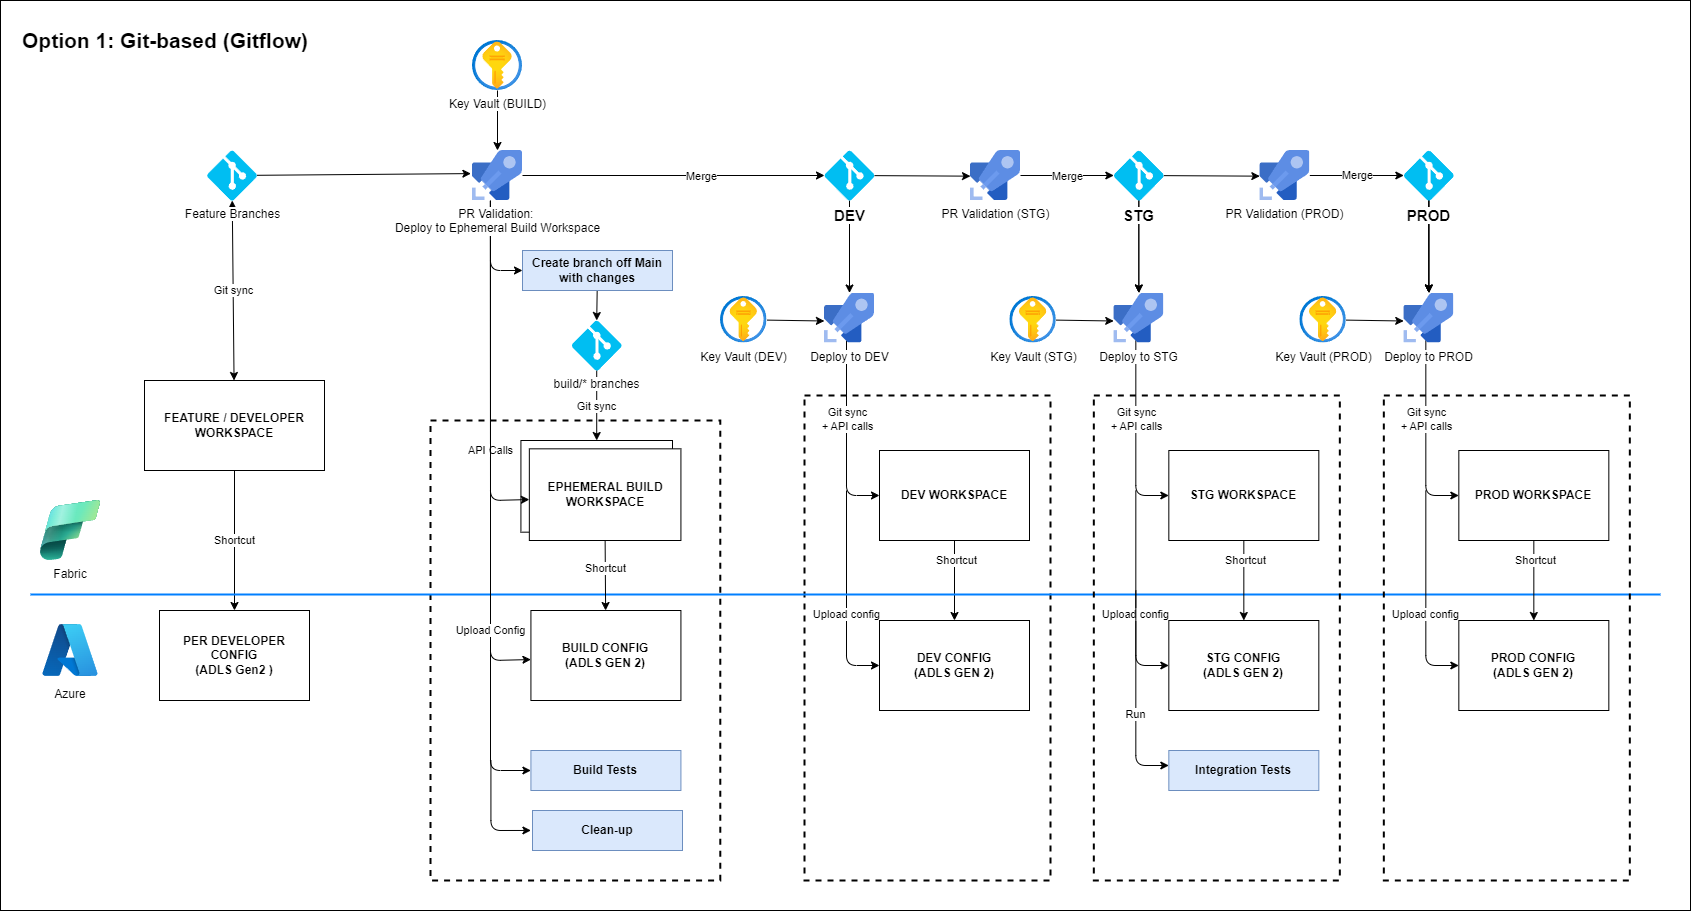
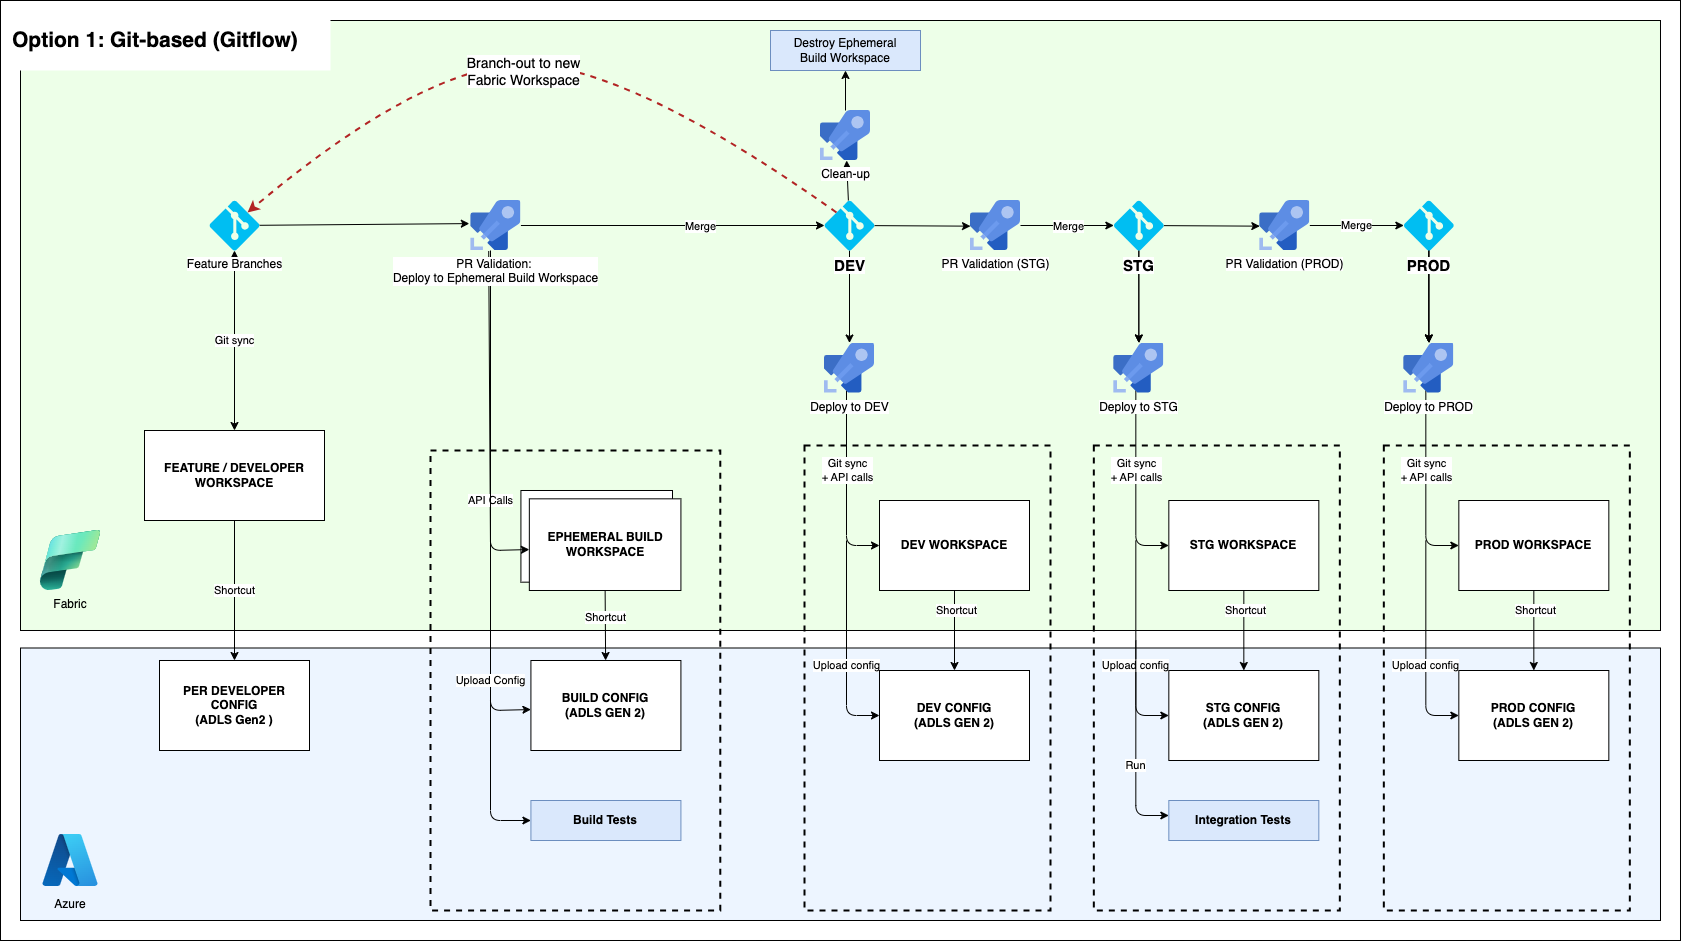
Upating doco

diff --git a/e2e_samples/fabric_dataops_sample/README.md b/e2e_samples/fabric_dataops_sample/README.md
@@ -17,8 +17,6 @@ This sample aims to provide customers with a reference end-to-end (E2E) implemen
     - [Unit testing](#unit-testing)
     - [Integration testing](#integration-testing)
   - [Build and release pipelines](#build-and-release-pipelines)
-    - [CI pipelines](#ci-pipelines)
-    - [CD pipelines](#cd-pipelines)
 - [Understanding the sample](#understanding-the-sample)
   - [High-level deployment sequence](#high-level-deployment-sequence)
   - [Deployed resources](#deployed-resources)
@@ -30,7 +28,6 @@ This sample aims to provide customers with a reference end-to-end (E2E) implemen
     - [Verifying the infrastructure deployment](#verifying-the-infrastructure-deployment)
   - [Running the application code](#running-the-application-code)
   - [Triggering the CI/CD pipelines](#triggering-the-cicd-pipelines)
-    - [Define environment and variable groups](#define-environment-and-variable-groups)
 - [Cleaning up](#cleaning-up)
 - [Frequently asked questions](#frequently-asked-questions)
   - [Infrastructure deployment related](#infrastructure-deployment-related)
@@ -58,7 +55,15 @@ The diagram below illustrates the complete end-to-end CI/CD process:
 
 ![Fabric CI/CD diagram](./images/fabric-cicd-option1.png)
 
-See [here](#build-and-release-pipelines) for details.
+Here is a high-level summary of the steps involved:
+
+- Deploy the sample infrastructure which creates three environments (dev, staging, prod) by default with Azure and Fabric resources.
+- Create a new feature workspace using the [branch out to a new workspace](https://learn.microsoft.com/fabric/cicd/git-integration/manage-branches?tabs=azure-devops#scenario-2---develop-using-another-workspace) functionality. Develop and test the feature in the feature workspace.
+- Open a pull request (PR) to merge the feature branch into the `dev` branch.
+- The QA pipeline it triggered automatically when a PR is opened. The pipeline runs Python unit tests and Fabric unit tests to validate the changes.
+- Once the PR is approved and merged, the build artifacts pipeline is triggered. This pipeline publishes configuration files and custom libraries as artifacts.
+- The release pipeline is triggered once the build artifacts pipeline completes successfully. This pipeline uploads the config changes to the ADLS Gen2 storage account and deploys the Fabric items to the dev environment using Fabric Git sync and REST APIs.
+- The same process is followed for the staging and production environments: a new PR is opened to merge changes from the `dev` branch to the `stg` branch, triggering the release pipeline to deploy to staging. This process is then repeated for the production environment.
 
 ## Key concepts
 
@@ -94,31 +99,7 @@ Integration tests ensure that different components work together as expected. An
 
 ### Build and release pipelines
 
-Build and release pipelines automate the validation, building, and deployment of changes across different environments (dev, stg, prod etc.). The pipelines are divided into Continuous Integration (CI) and Continuous Deployment (CD) stages:
-
-#### CI pipelines
-
-- **QA pipeline**: The QA pipeline is triggered whenever a pull request (PR) is submitted to the `dev` branch. This pipeline tests the functionality and checks for conflicts before merging the feature into the main branch. It includes the following steps:
-  - Runs Python unit tests to validate the functionality of libraries used in the solution.
-  - Runs Fabric unit tests to ensure the stability of the Fabric workspace. This involves automating the creation of an ephemeral workspace. The steps include:
-    - Creating a new ephemeral workspace.
-    - Syncing the `feature` branch to the ephemeral workspace to create the Fabric items.
-    - Setting up configurations not covered by Git syncing.
-    - Running tests in the ephemeral workspace created.
-
-  Refer to [devops/azure-pipelines-ci-qa.yml](./devops/azure-pipelines-ci-qa.yml) for the actual pipeline definition.
-
-- **QA cleanup pipeline**: As mentioned above, the **QA pipeline** creates a new ephemeral Fabric workspace for each PR. Once this PR is closed or abandoned, the **QA cleanup pipeline** ensures that these temporary resources are deleted, freeing up system resources.
-
-  Refer to [devops/azure-pipelines-ci-qa-cleanup.yml](./devops/azure-pipelines-ci-qa-cleanup.yml) for the actual pipeline definition.
-
-- **Build artifacts pipeline**: The **Build artifacts pipeline** is triggered once the feature PR is merged to the `dev` branch. This pipeline publishes configuration files and custom libraries as artifacts, which are then used by the release and deployment pipeline.
-
-  Refer to [/devops/azure-pipelines-ci-artifacts.yml](./devops/azure-pipelines-ci-artifacts.yml) for the actual pipeline definition.
-
-#### CD pipelines
-
-- **Release deploy pipeline**: The **Release deploy pipeline** is triggered when the CI **Build artifacts pipeline** completes successfully. This pipeline deploys the published artifacts to different environments (dev, stg, prod etc.). Manual approval is required before proceeding to the next stage, ensuring controlled deployment.
+Build and release pipelines automate the validation, building, and deployment of changes across different environments (dev, stg, prod etc.). The pipelines are divided into Continuous Integration (CI) and Continuous Deployment (CD) stages. Please check [build and release pipelines](./docs/build_and_release_pipelines.md) for detailed information.
 
 ## Understanding the sample
 
@@ -387,10 +368,8 @@ Here are the instructions to run the application:
 ![Data Pipeline Execution](./images/data-pipeline-execution.png)
 
 ### Triggering the CI/CD pipelines
-<!-- To be updated -->
 
-#### Define environment and variable groups
-<!-- To be updated -->
+Coming soon...
 
 ## Cleaning up
 

diff --git a/e2e_samples/fabric_dataops_sample/docs/build_and_release_pipelines.md b/e2e_samples/fabric_dataops_sample/docs/build_and_release_pipelines.md
@@ -1,0 +1,43 @@
+# Build and release pipelines <!-- omit in toc -->
+
+## Contents <!-- omit in toc -->
+
+- [CI pipelines](#ci-pipelines)
+  - [QA pipeline](#qa-pipeline)
+  - [QA cleanup pipeline](#qa-cleanup-pipeline)
+  - [Build artifacts pipeline](#build-artifacts-pipeline)
+- [CD pipelines](#cd-pipelines)
+  - [Release deploy pipeline](#release-deploy-pipeline)
+
+## CI pipelines
+
+### QA pipeline
+
+The 'QA pipeline' is triggered whenever a pull request (PR) is submitted to the `dev` branch. This pipeline tests the functionality and checks for conflicts before merging the feature into the main branch. It includes the following steps:
+
+- Runs Python unit tests to validate the functionality of libraries used in the solution.
+- Runs Fabric unit tests to ensure the stability of the Fabric workspace. This involves automating the creation of an ephemeral workspace. The steps include:
+  - Creating a new ephemeral workspace.
+  - Syncing the `feature` branch to the ephemeral workspace to create the Fabric items.
+  - Setting up configurations not covered by Git syncing.
+  - Running tests in the ephemeral workspace created.
+
+Refer to [devops/azure-pipelines-ci-qa.yml](./../devops/azure-pipelines-ci-qa.yml) for the actual pipeline definition.
+
+### QA cleanup pipeline
+
+As mentioned above, the 'QA pipeline' creates a new ephemeral Fabric workspace for each PR. Once this PR is closed or abandoned, the 'QA cleanup pipeline' ensures that these temporary resources are deleted, freeing up system resources.
+
+Refer to [devops/azure-pipelines-ci-qa-cleanup.yml](./../devops/azure-pipelines-ci-qa-cleanup.yml) for the actual pipeline definition.
+
+### Build artifacts pipeline
+
+The 'Build artifacts pipeline' is triggered once the feature PR is merged to the `dev` branch. This pipeline publishes configuration files and custom libraries as artifacts, which are then used by the release and deployment pipeline.
+
+Refer to [/devops/azure-pipelines-ci-artifacts.yml](./../devops/azure-pipelines-ci-artifacts.yml) for the actual pipeline definition.
+
+## CD pipelines
+
+### Release deploy pipeline
+
+The 'Release deploy pipeline' is triggered when the CI 'Build artifacts pipeline' completes successfully. This pipeline deploys the published artifacts to different environments (dev, stg, prod etc.). Manual approval is required before proceeding to the next stage, ensuring controlled deployment.
